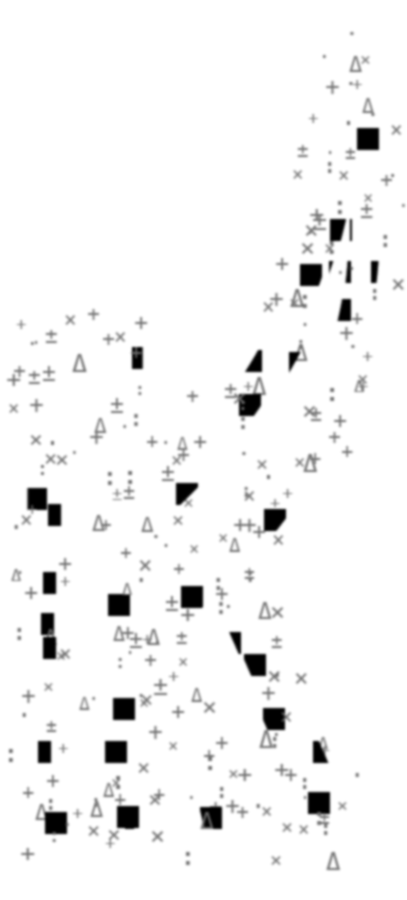
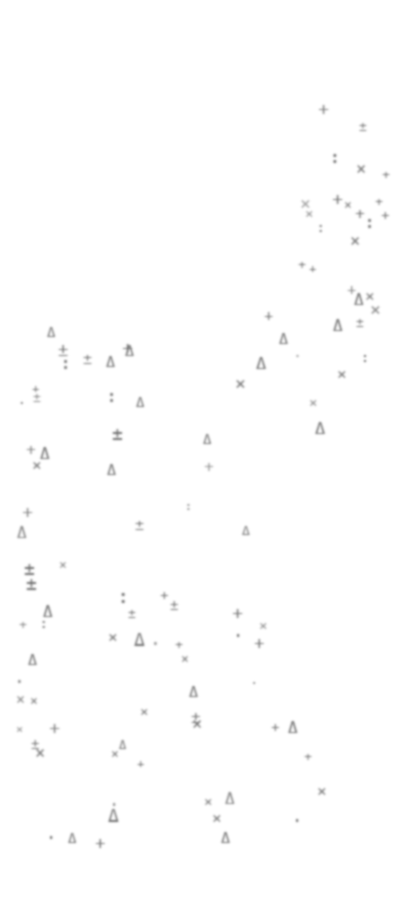
puu

diff --git a/index.html b/index.html
@@ -91,9 +91,9 @@
         </div>
         <div class="hero__klogo" aria-hidden="true">
           <img src="assets/brand/k-mark.png?v=3" alt="">
-          <img src="assets/brand/k-dissolve-1.png?v=3" alt="">
-          <img src="assets/brand/k-dissolve-2.png?v=3" alt="">
-          <img src="assets/brand/k-dissolve-3.png?v=3" alt="">
+          <img src="assets/brand/k-dissolve-1.png?v=4" alt="">
+          <img src="assets/brand/k-dissolve-2.png?v=4" alt="">
+          <img src="assets/brand/k-dissolve-3.png?v=4" alt="">
         </div>
         <div class="hero__subline" data-reveal="rise">
           <p>Mechanical Engineering — TU Wien · Design / CFD / Propulsion / Structures</p>